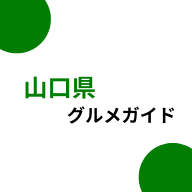
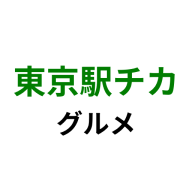
東京駅チカグルメへの変更

diff --git a/public/sw.js b/public/sw.js
@@ -1,1 +1,1 @@
-if(!self.define){let e,s={};const n=(n,a)=>(n=new URL(n+".js",a).href,s[n]||new Promise((s=>{if("document"in self){const e=document.createElement("script");e.src=n,e.onload=s,document.head.appendChild(e)}else e=n,importScripts(n),s()})).then((()=>{let e=s[n];if(!e)throw new Error(`Module ${n} didn’t register its module`);return e})));self.define=(a,t)=>{const i=e||("document"in self?document.currentScript.src:"")||location.href;if(s[i])return;let c={};const r=e=>n(e,i),o={module:{uri:i},exports:c,require:r};s[i]=Promise.all(a.map((e=>o[e]||r(e)))).then((e=>(t(...e),c)))}}define(["./workbox-588899ac"],(function(e){"use strict";importScripts(),self.skipWaiting(),e.clientsClaim(),e.precacheAndRoute([{url:"/_next/static/OIa3jXltOh8oKEvAApccm/_buildManifest.js",revision:"a05b5e79eb8a5e9cd192c6c414a6beaf"},{url:"/_next/static/OIa3jXltOh8oKEvAApccm/_ssgManifest.js",revision:"b6652df95db52feb4daf4eca35380933"},{url:"/_next/static/chunks/310-c300549a39016767.js",revision:"c300549a39016767"},{url:"/_next/static/chunks/350-4160b8bf46484b16.js",revision:"4160b8bf46484b16"},{url:"/_next/static/chunks/framework-2c79e2a64abdb08b.js",revision:"2c79e2a64abdb08b"},{url:"/_next/static/chunks/main-a0e24809ce57b885.js",revision:"a0e24809ce57b885"},{url:"/_next/static/chunks/pages/_app-ce3fdf57cf0d7c67.js",revision:"ce3fdf57cf0d7c67"},{url:"/_next/static/chunks/pages/_error-54de1933a164a1ff.js",revision:"54de1933a164a1ff"},{url:"/_next/static/chunks/pages/area/%5Barea%5D-6021fbd5f48763b5.js",revision:"6021fbd5f48763b5"},{url:"/_next/static/chunks/pages/area/%5Barea%5D/genre/%5Bgenre%5D-79082d7024e9b373.js",revision:"79082d7024e9b373"},{url:"/_next/static/chunks/pages/genre/%5Bgenre%5D-30ec307d8b9064ca.js",revision:"30ec307d8b9064ca"},{url:"/_next/static/chunks/pages/index-b39537a2035e8bae.js",revision:"b39537a2035e8bae"},{url:"/_next/static/chunks/polyfills-c67a75d1b6f99dc8.js",revision:"837c0df77fd5009c9e46d446188ecfd0"},{url:"/_next/static/chunks/webpack-b8f8d6679aaa5f42.js",revision:"b8f8d6679aaa5f42"},{url:"/_next/static/css/6cd6c551899dd85d.css",revision:"6cd6c551899dd85d"},{url:"/favicon.ico",revision:"c30c7d42707a47a3f4591831641e50dc"},{url:"/icon-192x192.png",revision:"4d8fd11974b04108e0c0c29fc5b883d9"},{url:"/icon-256x256.png",revision:"c8a0b6e43de38aa5d8762bbfec2f9e9d"},{url:"/icon-384x384.png",revision:"0dc5fd65f35f0615a743815be66d19dd"},{url:"/icon-512x512.png",revision:"e709f547b0c099a81b1e2b222e0640da"},{url:"/manifest.json",revision:"0a416fd068b1f6f427f430bd93eb81e8"},{url:"/next.svg",revision:"8e061864f388b47f33a1c3780831193e"},{url:"/thirteen.svg",revision:"53f96b8290673ef9d2895908e69b2f92"},{url:"/vercel.svg",revision:"61c6b19abff40ea7acd577be818f3976"}],{ignoreURLParametersMatching:[]}),e.cleanupOutdatedCaches(),e.registerRoute("/",new e.NetworkFirst({cacheName:"start-url",plugins:[{cacheWillUpdate:async({request:e,response:s,event:n,state:a})=>s&&"opaqueredirect"===s.type?new Response(s.body,{status:200,statusText:"OK",headers:s.headers}):s}]}),"GET"),e.registerRoute(/^https:\/\/fonts\.(?:gstatic)\.com\/.*/i,new e.CacheFirst({cacheName:"google-fonts-webfonts",plugins:[new e.ExpirationPlugin({maxEntries:4,maxAgeSeconds:31536e3})]}),"GET"),e.registerRoute(/^https:\/\/fonts\.(?:googleapis)\.com\/.*/i,new e.StaleWhileRevalidate({cacheName:"google-fonts-stylesheets",plugins:[new e.ExpirationPlugin({maxEntries:4,maxAgeSeconds:604800})]}),"GET"),e.registerRoute(/\.(?:eot|otf|ttc|ttf|woff|woff2|font.css)$/i,new e.StaleWhileRevalidate({cacheName:"static-font-assets",plugins:[new e.ExpirationPlugin({maxEntries:4,maxAgeSeconds:604800})]}),"GET"),e.registerRoute(/\.(?:jpg|jpeg|gif|png|svg|ico|webp)$/i,new e.StaleWhileRevalidate({cacheName:"static-image-assets",plugins:[new e.ExpirationPlugin({maxEntries:64,maxAgeSeconds:86400})]}),"GET"),e.registerRoute(/\/_next\/image\?url=.+$/i,new e.StaleWhileRevalidate({cacheName:"next-image",plugins:[new e.ExpirationPlugin({maxEntries:64,maxAgeSeconds:86400})]}),"GET"),e.registerRoute(/\.(?:mp3|wav|ogg)$/i,new e.CacheFirst({cacheName:"static-audio-assets",plugins:[new e.RangeRequestsPlugin,new e.ExpirationPlugin({maxEntries:32,maxAgeSeconds:86400})]}),"GET"),e.registerRoute(/\.(?:mp4)$/i,new e.CacheFirst({cacheName:"static-video-assets",plugins:[new e.RangeRequestsPlugin,new e.ExpirationPlugin({maxEntries:32,maxAgeSeconds:86400})]}),"GET"),e.registerRoute(/\.(?:js)$/i,new e.StaleWhileRevalidate({cacheName:"static-js-assets",plugins:[new e.ExpirationPlugin({maxEntries:32,maxAgeSeconds:86400})]}),"GET"),e.registerRoute(/\.(?:css|less)$/i,new e.StaleWhileRevalidate({cacheName:"static-style-assets",plugins:[new e.ExpirationPlugin({maxEntries:32,maxAgeSeconds:86400})]}),"GET"),e.registerRoute(/\/_next\/data\/.+\/.+\.json$/i,new e.StaleWhileRevalidate({cacheName:"next-data",plugins:[new e.ExpirationPlugin({maxEntries:32,maxAgeSeconds:86400})]}),"GET"),e.registerRoute(/\.(?:json|xml|csv)$/i,new e.NetworkFirst({cacheName:"static-data-assets",plugins:[new e.ExpirationPlugin({maxEntries:32,maxAgeSeconds:86400})]}),"GET"),e.registerRoute((({url:e})=>{if(!(self.origin===e.origin))return!1;const s=e.pathname;return!s.startsWith("/api/auth/")&&!!s.startsWith("/api/")}),new e.NetworkFirst({cacheName:"apis",networkTimeoutSeconds:10,plugins:[new e.ExpirationPlugin({maxEntries:16,maxAgeSeconds:86400})]}),"GET"),e.registerRoute((({url:e})=>{if(!(self.origin===e.origin))return!1;return!e.pathname.startsWith("/api/")}),new e.NetworkFirst({cacheName:"others",networkTimeoutSeconds:10,plugins:[new e.ExpirationPlugin({maxEntries:32,maxAgeSeconds:86400})]}),"GET"),e.registerRoute((({url:e})=>!(self.origin===e.origin)),new e.NetworkFirst({cacheName:"cross-origin",networkTimeoutSeconds:10,plugins:[new e.ExpirationPlugin({maxEntries:32,maxAgeSeconds:3600})]}),"GET")}));
+if(!self.define){let e,s={};const n=(n,a)=>(n=new URL(n+".js",a).href,s[n]||new Promise((s=>{if("document"in self){const e=document.createElement("script");e.src=n,e.onload=s,document.head.appendChild(e)}else e=n,importScripts(n),s()})).then((()=>{let e=s[n];if(!e)throw new Error(`Module ${n} didn’t register its module`);return e})));self.define=(a,i)=>{const t=e||("document"in self?document.currentScript.src:"")||location.href;if(s[t])return;let c={};const r=e=>n(e,t),o={module:{uri:t},exports:c,require:r};s[t]=Promise.all(a.map((e=>o[e]||r(e)))).then((e=>(i(...e),c)))}}define(["./workbox-588899ac"],(function(e){"use strict";importScripts(),self.skipWaiting(),e.clientsClaim(),e.precacheAndRoute([{url:"/_next/static/chunks/299-ad87ad4e9e593d2d.js",revision:"ad87ad4e9e593d2d"},{url:"/_next/static/chunks/726-817ef3f641a9288e.js",revision:"817ef3f641a9288e"},{url:"/_next/static/chunks/framework-2c79e2a64abdb08b.js",revision:"2c79e2a64abdb08b"},{url:"/_next/static/chunks/main-a0e24809ce57b885.js",revision:"a0e24809ce57b885"},{url:"/_next/static/chunks/pages/_app-ce3fdf57cf0d7c67.js",revision:"ce3fdf57cf0d7c67"},{url:"/_next/static/chunks/pages/_error-54de1933a164a1ff.js",revision:"54de1933a164a1ff"},{url:"/_next/static/chunks/pages/area/%5Barea%5D-8001ea3660466933.js",revision:"8001ea3660466933"},{url:"/_next/static/chunks/pages/area/%5Barea%5D/genre/%5Bgenre%5D-ba8b204139921e9c.js",revision:"ba8b204139921e9c"},{url:"/_next/static/chunks/pages/genre/%5Bgenre%5D-1d0029cc42497113.js",revision:"1d0029cc42497113"},{url:"/_next/static/chunks/pages/index-a7b15304cb420fb0.js",revision:"a7b15304cb420fb0"},{url:"/_next/static/chunks/polyfills-c67a75d1b6f99dc8.js",revision:"837c0df77fd5009c9e46d446188ecfd0"},{url:"/_next/static/chunks/webpack-b8f8d6679aaa5f42.js",revision:"b8f8d6679aaa5f42"},{url:"/_next/static/css/89c2aa1c71cb63b8.css",revision:"89c2aa1c71cb63b8"},{url:"/_next/static/xT5ay9KhHpCj4LuhCoxsc/_buildManifest.js",revision:"626238c13fd672b0582f8cf9a7be6c00"},{url:"/_next/static/xT5ay9KhHpCj4LuhCoxsc/_ssgManifest.js",revision:"b6652df95db52feb4daf4eca35380933"},{url:"/android-chrome-192x192.png",revision:"4bfa43683340e1e7b9339dba241e0e30"},{url:"/apple-touch-icon.png",revision:"59189f616c4873536b5f2e4f40f24841"},{url:"/favicon.ico",revision:"d10fa7d8a5bb1e91c17566efda47d017"},{url:"/icon-192x192.png",revision:"21ece4864e36060229eff3f3530481b4"},{url:"/icon-384x384.png",revision:"ed6c93186aa70be17296a626e4146166"},{url:"/icon-512x512.png",revision:"afcf42aaca05abb705bb5c09578dfae5"},{url:"/manifest.json",revision:"325e57b0fff78799741349902d385dd2"},{url:"/next.svg",revision:"8e061864f388b47f33a1c3780831193e"},{url:"/ogp_large.png",revision:"0965f284e96c3e4b30c7a7331edfdd76"},{url:"/thirteen.svg",revision:"53f96b8290673ef9d2895908e69b2f92"},{url:"/vercel.svg",revision:"61c6b19abff40ea7acd577be818f3976"}],{ignoreURLParametersMatching:[]}),e.cleanupOutdatedCaches(),e.registerRoute("/",new e.NetworkFirst({cacheName:"start-url",plugins:[{cacheWillUpdate:async({request:e,response:s,event:n,state:a})=>s&&"opaqueredirect"===s.type?new Response(s.body,{status:200,statusText:"OK",headers:s.headers}):s}]}),"GET"),e.registerRoute(/^https:\/\/fonts\.(?:gstatic)\.com\/.*/i,new e.CacheFirst({cacheName:"google-fonts-webfonts",plugins:[new e.ExpirationPlugin({maxEntries:4,maxAgeSeconds:31536e3})]}),"GET"),e.registerRoute(/^https:\/\/fonts\.(?:googleapis)\.com\/.*/i,new e.StaleWhileRevalidate({cacheName:"google-fonts-stylesheets",plugins:[new e.ExpirationPlugin({maxEntries:4,maxAgeSeconds:604800})]}),"GET"),e.registerRoute(/\.(?:eot|otf|ttc|ttf|woff|woff2|font.css)$/i,new e.StaleWhileRevalidate({cacheName:"static-font-assets",plugins:[new e.ExpirationPlugin({maxEntries:4,maxAgeSeconds:604800})]}),"GET"),e.registerRoute(/\.(?:jpg|jpeg|gif|png|svg|ico|webp)$/i,new e.StaleWhileRevalidate({cacheName:"static-image-assets",plugins:[new e.ExpirationPlugin({maxEntries:64,maxAgeSeconds:86400})]}),"GET"),e.registerRoute(/\/_next\/image\?url=.+$/i,new e.StaleWhileRevalidate({cacheName:"next-image",plugins:[new e.ExpirationPlugin({maxEntries:64,maxAgeSeconds:86400})]}),"GET"),e.registerRoute(/\.(?:mp3|wav|ogg)$/i,new e.CacheFirst({cacheName:"static-audio-assets",plugins:[new e.RangeRequestsPlugin,new e.ExpirationPlugin({maxEntries:32,maxAgeSeconds:86400})]}),"GET"),e.registerRoute(/\.(?:mp4)$/i,new e.CacheFirst({cacheName:"static-video-assets",plugins:[new e.RangeRequestsPlugin,new e.ExpirationPlugin({maxEntries:32,maxAgeSeconds:86400})]}),"GET"),e.registerRoute(/\.(?:js)$/i,new e.StaleWhileRevalidate({cacheName:"static-js-assets",plugins:[new e.ExpirationPlugin({maxEntries:32,maxAgeSeconds:86400})]}),"GET"),e.registerRoute(/\.(?:css|less)$/i,new e.StaleWhileRevalidate({cacheName:"static-style-assets",plugins:[new e.ExpirationPlugin({maxEntries:32,maxAgeSeconds:86400})]}),"GET"),e.registerRoute(/\/_next\/data\/.+\/.+\.json$/i,new e.StaleWhileRevalidate({cacheName:"next-data",plugins:[new e.ExpirationPlugin({maxEntries:32,maxAgeSeconds:86400})]}),"GET"),e.registerRoute(/\.(?:json|xml|csv)$/i,new e.NetworkFirst({cacheName:"static-data-assets",plugins:[new e.ExpirationPlugin({maxEntries:32,maxAgeSeconds:86400})]}),"GET"),e.registerRoute((({url:e})=>{if(!(self.origin===e.origin))return!1;const s=e.pathname;return!s.startsWith("/api/auth/")&&!!s.startsWith("/api/")}),new e.NetworkFirst({cacheName:"apis",networkTimeoutSeconds:10,plugins:[new e.ExpirationPlugin({maxEntries:16,maxAgeSeconds:86400})]}),"GET"),e.registerRoute((({url:e})=>{if(!(self.origin===e.origin))return!1;return!e.pathname.startsWith("/api/")}),new e.NetworkFirst({cacheName:"others",networkTimeoutSeconds:10,plugins:[new e.ExpirationPlugin({maxEntries:32,maxAgeSeconds:86400})]}),"GET"),e.registerRoute((({url:e})=>!(self.origin===e.origin)),new e.NetworkFirst({cacheName:"cross-origin",networkTimeoutSeconds:10,plugins:[new e.ExpirationPlugin({maxEntries:32,maxAgeSeconds:3600})]}),"GET")}));

diff --git a/src/data/data.ts b/src/data/data.ts
@@ -1,48 +1,53 @@
 export const REVALIDATE_TIME = 3600 * 3; //3時間
 
 export const PLACE = [
-  { KEY: "all", URL: "/", NAME: "山口県全域", POSITION: "&service_area=SA75" },
   {
-    KEY: "yudaonsen",
-    URL: "/area/yudaonsen",
-    NAME: "湯田温泉",
-    POSITION: "&lat=34.16497682781039&lng=131.4571897371615",
+    KEY: "all",
+    URL: "/",
+    NAME: "東京",
+    POSITION: "&lat=35.68146275605016&lng=139.76710333847444",
   },
   {
-    KEY: "hofu",
-    URL: "/area/hofu",
-    NAME: "防府市",
-    POSITION: "&lat=34.054470150656854&lng=131.56869995888923",
+    KEY: "shibuya",
+    URL: "/area/shibuya",
+    NAME: "渋谷",
+    POSITION: "&lat=35.658182066464185&lng=139.70159288080336",
   },
   {
-    KEY: "iwakuni",
-    URL: "/area/iwakuni",
-    NAME: "岩国市",
-    POSITION: "&lat=34.17057635622233&lng=132.220462531636",
+    KEY: "shinjuku",
+    URL: "/area/shinjuku",
+    NAME: "新宿",
+    POSITION: "&lat=35.68978966315499&lng=139.7005605673097",
   },
   {
-    KEY: "shimonoseki",
-    URL: "/area/shimonoseki",
-    NAME: "下関市",
-    POSITION: "&lat=33.96576082350943&lng=130.94190157495564",
+    KEY: "shimokitazawa",
+    URL: "/area/shimokitazawa",
+    NAME: "下北沢",
+    POSITION: "&lat=35.66183756248904&lng=139.6668381519685",
   },
   {
-    KEY: "ube",
-    URL: "/area/ube",
-    NAME: "宇部市",
-    POSITION: "&lat=33.956951414684696&lng=131.24490100176504",
+    KEY: "shinagawa",
+    URL: "/area/shinagawa",
+    NAME: "品川",
+    POSITION: "&lat=35.62868056481697&lng=139.73869532313222",
   },
   {
-    KEY: "nagato",
-    URL: "/area/nagato",
-    NAME: "長門市",
-    POSITION: "&lat=34.374987347107165&lng=131.18097959512923",
+    KEY: "ueno",
+    URL: "/area/ueno",
+    NAME: "上野",
+    POSITION: "&lat=35.714315262208316&lng=139.77749492682557",
   },
   {
-    KEY: "hagi",
-    URL: "/area/hagi",
-    NAME: "萩市",
-    POSITION: "&lat=34.416051855007936&lng=131.39850401740074",
+    KEY: "ikebukuro",
+    URL: "/area/ikebukuro",
+    NAME: "池袋",
+    POSITION: "&lat=35.72980113647696&lng=139.71083213431248",
+  },
+  {
+    KEY: "akihabara",
+    URL: "/area/akihabara",
+    NAME: "秋葉原",
+    POSITION: "&lat=35.69856754301279&lng=139.77308169031997",
   },
 ];
 

diff --git a/src/pages/_document.tsx b/src/pages/_document.tsx
@@ -7,11 +7,24 @@ export default function Document() {
         <meta httpEquiv="content-language" content="ja" />
         <meta name="theme-color" content="#017D01" />
         <meta name="application-name" content="gourmet-search" />
-        <meta name="description" content="山口県の飲食店が検索できます" />
+        <meta
+          name="description"
+          content="東京の各主要駅から徒歩15分以内の飲食店が検索できます"
+        />
         <link rel="manifest" href="/manifest.json" />
         <link rel="icon" sizes="192x192" href="/icon-192x192.png" />
         <link rel="icon" href="/favicon.ico" />
-        <link rel="apple-touch-icon" sizes="180x180" href="apple-touch-icon.png"></link>
+        <link
+          rel="apple-touch-icon"
+          sizes="180x180"
+          href="apple-touch-icon.png"
+        ></link>
+        <link
+          rel="icon"
+          type="image/png"
+          href="android-chrome-192x192.png"
+          sizes="192x192"
+        ></link>
       </Head>
       <body>
         <Main />

diff --git a/src/pages/api/getShopLists.ts b/src/pages/api/getShopLists.ts
@@ -2,8 +2,12 @@ import { PLACE } from "@/data/data";
 import axios from "axios";
 import type { NextApiRequest, NextApiResponse } from "next";
 
+//表示件数
 export const SHOW_NUM = 10;
 
+/**
+ * 飲食店のリストを取得するAPI
+ */
 export default async function handler(
   req: NextApiRequest,
   res: NextApiResponse
@@ -19,7 +23,7 @@ export default async function handler(
     apiCount = `&count=${req.query.count}`;
   }
 
-  //何件目から取得するかs
+  //何件目から取得するか
   let apiNum = "&start=1";
   if (req.query.startNum) {
     const resNum: any = req.query.startNum;
@@ -51,7 +55,7 @@ export default async function handler(
 
   try {
     const resData = await axios.get(
-      `${apiUrl}${apiKey}${apiPlace}${apiGenre}${apiKeyword}${apiCount}${apiNum}&range=5`
+      `${apiUrl}${apiKey}${apiPlace}${apiGenre}${apiKeyword}${apiCount}${apiNum}&range=3`
     );
     const shopLists = resData.data.results;
 

diff --git a/src/components/Meta.tsx b/src/components/Meta.tsx
@@ -7,12 +7,12 @@ type MetaType = {
 
 export const Meta = ({ title, description }: MetaType) => {
   const metaTitle = title
-    ? `${title} | 山口県グルメガイド`
-    : "山口県グルメガイド";
+    ? `${title} | 東京駅チカグルメ`
+    : "東京駅チカグルメ";
 
   const metaDesc = description
     ? description
-    : "山口県の飲食店が検索できます。地域、ジャンルからあなたのお気に入りのお店を見つけよう！";
+    : "東京の各主要駅から徒歩15分以内の飲食店が検索できます。地域、ジャンルからあなたのお気に入りのお店を見つけよう！";
 
   return (
     <Head>

diff --git a/src/components/Header.tsx b/src/components/Header.tsx
@@ -10,7 +10,7 @@ export const Header = ({ onClick }: HeaderType) => {
     <header className="text-center border-b border-[#F8E6CC] fixed w-[100%] top-0 bg-white z-20">
       <h1 className="inline-block py-3">
         <Link href={"/"} className="text-xl font-bold" onClick={onClick}>
-          <span className="text-[#017D01] text-2xl">山口県</span>グルメガイド
+          <span className="text-[#017D01] text-2xl">東京駅チカ</span>グルメ
         </Link>
       </h1>
 

diff --git a/src/pages/area/[area]/genre/[genre].tsx b/src/pages/area/[area]/genre/[genre].tsx
@@ -82,7 +82,7 @@ export default function Home({ area, genreNum, genreItem }: HomeType) {
 
   return (
     <>
-      <Meta title={`${areaName}の${genreItem}`} />
+      <Meta title={`${areaName}駅チカの${genreItem}`} />
 
       <Header onClick={firstGetShop} />
 

diff --git a/src/pages/genre/[genre].tsx b/src/pages/genre/[genre].tsx
@@ -75,7 +75,7 @@ export default function Home({ genreNum, genreItem }: HomeType) {
 
   return (
     <>
-      <Meta title={`山口県の${genreItem}`} />
+      <Meta title={`東京駅チカの${genreItem}`} />
 
       <Header onClick={firstGetShop} />
 

diff --git a/src/pages/area/[area]/index.tsx b/src/pages/area/[area]/index.tsx
@@ -78,7 +78,7 @@ export default function Home({ area }: HomeType) {
 
   return (
     <>
-      <Meta title={`${areaName}`} />
+      <Meta title={`${areaName}駅チカ`} />
 
       <Header onClick={firstGetShop} />
 

diff --git a/README.md b/README.md
@@ -1,19 +1,28 @@
-# 飲食店検索アプリ 山口県特化
+# Next.js× ホットペッパーグルメ API でグルメ検索アプリ制作
 
-山口県の飲食店が検索できるアプリ
+## アーキテクチャ図
 
-## 検索候補
+## 機能
 
-- 地域別
-- ジャンル別
+- 地域別検索
+- ジャンル別検索
+- キーワード検索
+- ページネーション
+- PWA 対応
 
 ## 参考
 
 - [ホットペッパー API リファレンス](https://webservice.recruit.co.jp/doc/hotpepper/reference.html)
 - [Hotpepper API を使って指定した地点の近くの飲食店を検索する](https://coffee-nominagara.com/hotpepper-api)
 
-## Todo
+## やりたい事・修正点
 
-- ogp やメタ情報の設定
 - 型定義 any の修正
-- pwa の導入 android だけうまくいった
+
+## 開発者
+
+[Atsuya](https://github.com/AtsuyaMorishita)
+
+## 公開 URL
+
+https://gourmet-search-tau.vercel.app/
